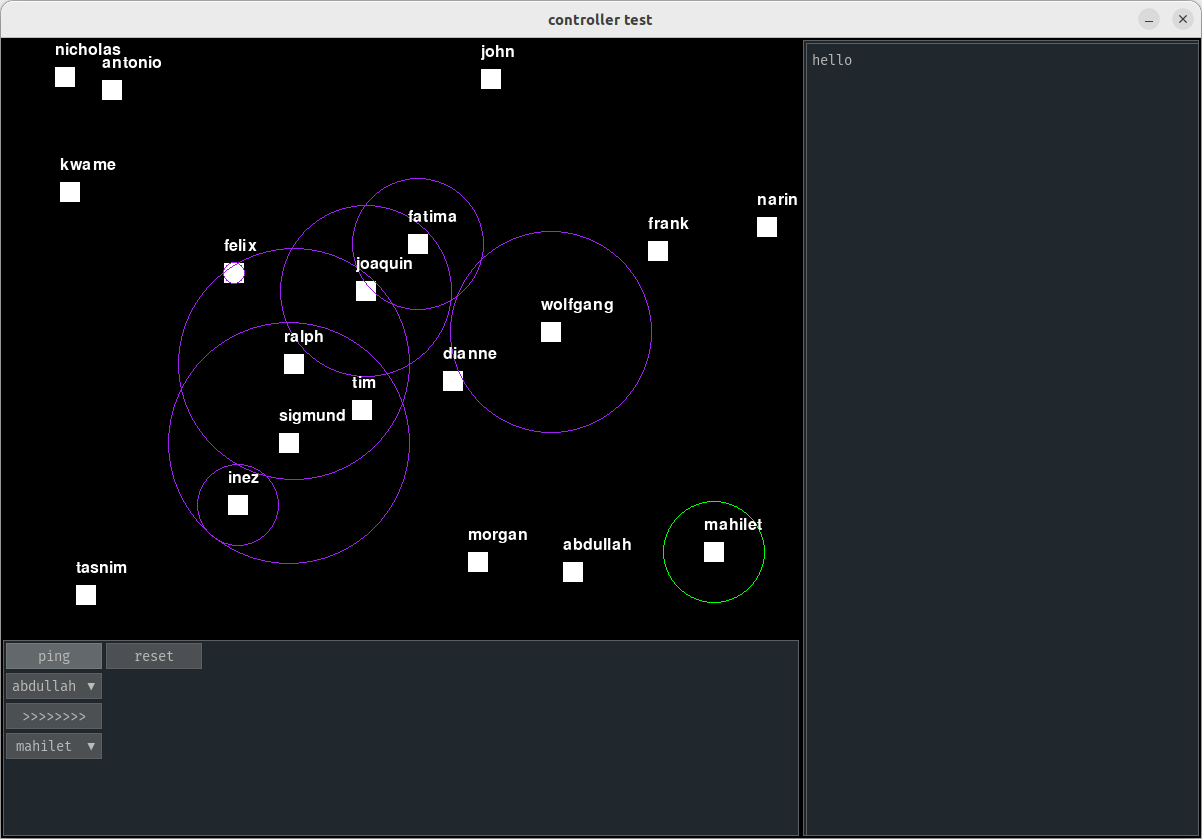
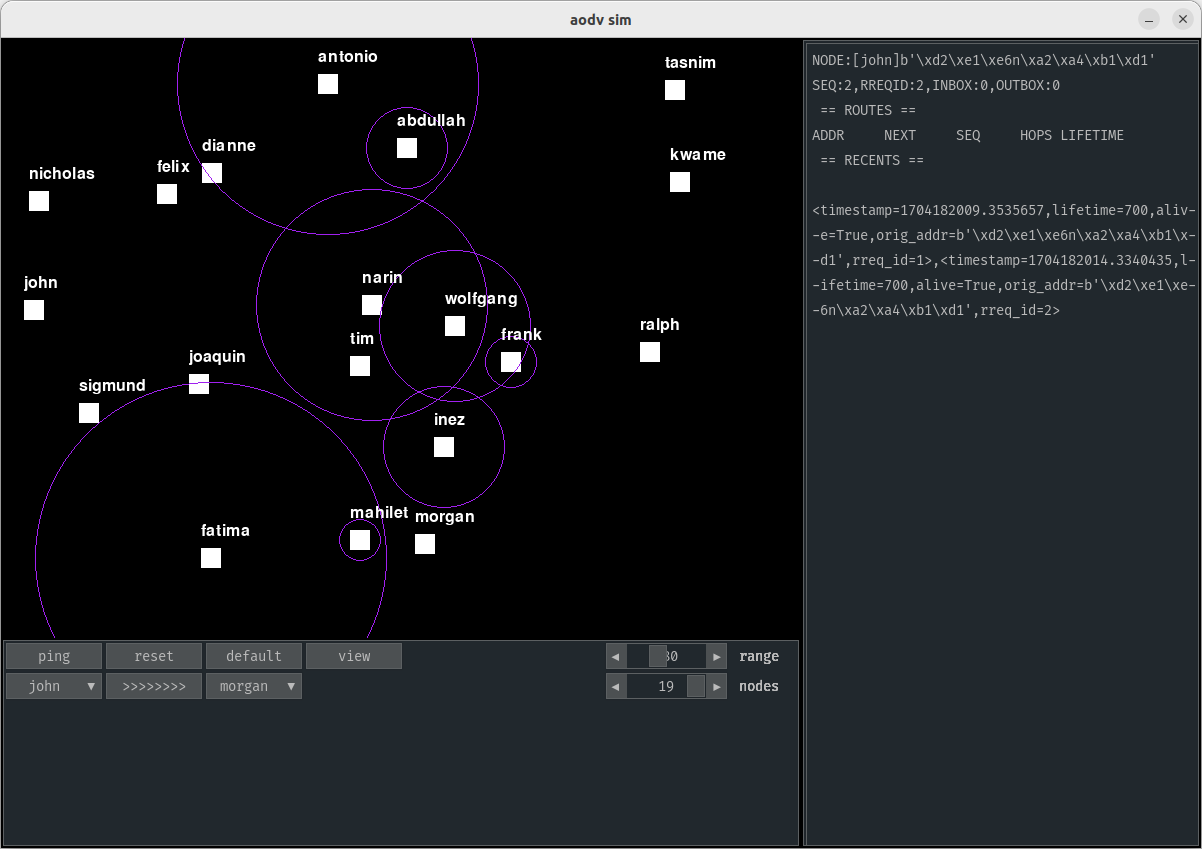
updates

diff --git a/main.py b/main.py
@@ -92,6 +92,8 @@ class Transmission(pg.sprite.Sprite):
         pg.draw.circle(surface, self.color, self.position, self.radius, 1)
 
 class Settings:
+    def __getitem__(self, key):
+        return self.__dict__.get(key, None)
     def __init__(self):
         self.default()
     def default(self):
@@ -102,6 +104,39 @@ class Settings:
         self.recver = cfg.NODE_NAMES[1]
         self.range = cfg.DEFAULT_RANGE
         self.speed = cfg.DEFAULT_SPEED
+        self.view_node = self.sender
+
+class Slider(UIHorizontalSlider):
+    def __init__(self, parent, label, value_range, start_value, x, y):
+        r = pg.Rect((x*cfg.BUTTON_W,y*cfg.BUTTON_H,cfg.SLIDER_W,cfg.SLIDER_H))
+        # super().__init__(relative_rect=pg.Rect((x*cfg.BUTTON_W,y*cfg.BUTTON_H,cfg.SLIDER_W,cfg.SLIDER_H)),
+        super().__init__(relative_rect=r,
+                        value_range=value_range, start_value=start_value, manager=parent.manager, container=parent)
+        self.inner =  UILabel(relative_rect=r,
+                                text=str(start_value),
+                                manager=parent.manager,
+                                container=parent)
+        
+        self.outer = UILabel(relative_rect=pg.Rect((r.topright[0]-r.w*0.25,r[1]), (r.w, r.h)),
+                                text=str(label),
+                                manager=parent.manager,
+                                container=parent,)
+    def set_text(self, text):
+        self.inner.set_text(text)
+
+class Button(UIButton):
+    def __init__(self, parent, text, x, y):
+        super().__init__(relative_rect=pg.Rect((x*cfg.BUTTON_W,y*cfg.BUTTON_H,cfg.BUTTON_W,cfg.BUTTON_H)),
+                        text=text,
+                        manager=parent.manager,
+                        container=parent)
+class Dropdown(UIDropDownMenu):
+    def __init__(self, parent, options_list, start_idx, x, y):
+        super().__init__(relative_rect=pg.Rect((x*cfg.BUTTON_W,y*cfg.BUTTON_H,cfg.BUTTON_W,cfg.BUTTON_H)),
+                         options_list=options_list,
+                         starting_option=options_list[start_idx],
+                         manager=parent.manager,
+                         container=parent)
 
 class NodeViewer(UIPanel):
     def __init__(self, parent):
@@ -112,15 +147,18 @@ class NodeViewer(UIPanel):
         self.settings = parent.settings
         self.nodes = parent.nodes
         self.signals = parent.signals
-
-        self.active_node = None
         self.box = UITextBox(html_text='hello',
                              relative_rect=pg.Rect(0,0,cfg.VIEW_WIDTH,cfg.VIEW_HEIGHT),
                              manager=self.manager,
                              container=self,
                              plain_text_display_only=True)
-        print(self.rect)
-        
+    
+    def print_active(self):
+        for n in self.nodes:
+            # if n.nickname == self.settings.view_node:
+            if n.nickname == self.settings.sender:
+                self.box.set_text(n.aodv.__repr__())
+    
 
 class Controller(UIPanel):
     def __init__(self, parent):
@@ -160,6 +198,7 @@ class Controller(UIPanel):
             # reset button clicked
             if event.ui_element == self.default_button:
                 self.settings.default()
+                self.parent.reset_nodes()
                 self.remake()
                 self.refresh()
                 handled &= True
@@ -175,7 +214,11 @@ class Controller(UIPanel):
                     self.settings.direction = PING_REV
                 else:
                     self.settings.direction = PING_FWD
-                self.dir_label.set_text(self.settings.direction)
+                self.dir_button.set_text(self.settings.direction)
+                handled &= True
+            # view button
+            if event.ui_element == self.view_button:
+                self.parent.view.print_active()
                 handled &= True
         elif event.type == gui.UI_HORIZONTAL_SLIDER_MOVED:
             #TODO
@@ -195,82 +238,33 @@ class Controller(UIPanel):
             self.reset_button.kill()
             self.default_button.kill()
             self.dir_button.kill()
-            self.dir_label.kill()
+            self.view_button.kill()
             self.send_list.kill()
             self.recv_list.kill()
             self.num_nodes_slider.kill()
-            self.num_nodes_label.kill()
             self.range_slider.kill()
-            self.range_label.kill()
         except Exception as e:
             print(e)
 
-        self.ping_button = UIButton(relative_rect=pg.Rect((0,0),(cfg.BUTTON_W,cfg.BUTTON_H)),
-                                    text='ping',
-                                    manager=self.manager,
-                                    container=self)
-        # button to reset nodes
-        self.reset_button = UIButton(relative_rect=pg.Rect((cfg.BUTTON_W,0),(cfg.BUTTON_W,cfg.BUTTON_H)),
-                                    text='reset',
-                                    manager=self.manager,
-                                    container=self)
-        # button to reset nodes
-        self.default_button = UIButton(relative_rect=pg.Rect((cfg.BUTTON_W*2,cfg.BUTTON_H*2),(cfg.BUTTON_W,cfg.BUTTON_H)),
-                                    text='default',
-                                    manager=self.manager,
-                                    container=self)
-        # button to switch send direction
-        self.dir_button = UIButton(relative_rect=pg.Rect((0,cfg.BUTTON_H*2),(cfg.BUTTON_W,cfg.BUTTON_H)),
-                                                text='',
-                                                manager=self.manager,
-                                                container=self)
-        # direction button label
-        self.dir_label = UILabel(relative_rect=self.dir_button.relative_rect,
-                                 text=self.settings.direction,
-                                 manager=self.manager,
-                                 container=self)
-        # left node list
-        self.send_list = UIDropDownMenu(relative_rect=pg.Rect(0,cfg.BUTTON_H,cfg.BUTTON_W,cfg.BUTTON_H), 
-                                         options_list=cfg.NODE_NAMES[:self.settings.num_nodes],
-                                         manager=self.manager,
-                                         container=self,
-                                         starting_option=cfg.NODE_NAMES[0])
-        # right node list
-        self.recv_list = UIDropDownMenu(relative_rect=pg.Rect(0,cfg.BUTTON_H*3,cfg.BUTTON_W,cfg.BUTTON_H),
-                                         options_list=cfg.NODE_NAMES[:self.settings.num_nodes],
-                                         manager=self.manager,
-                                         container=self,
-                                         starting_option=cfg.NODE_NAMES[1])
-        # number of nodes slider
-        self.num_nodes_slider = UIHorizontalSlider(relative_rect=pg.Rect(cfg.BUTTON_W*2,0,cfg.SLIDER_W,cfg.SLIDER_H),
-                                                   value_range=(3,len(cfg.NODE_NAMES)),
-                                                   start_value=self.settings.num_nodes,
-                                                   manager=self.manager,
-                                                   container=self)
-        # num nodes label
-        self.num_nodes_label = UILabel(relative_rect=self.num_nodes_slider.relative_rect,
-                                 text=str(self.settings.num_nodes),
-                                 manager=self.manager,
-                                 container=self)
-        # signal radius slider
-        self.range_slider = UIHorizontalSlider(relative_rect=pg.Rect(cfg.BUTTON_W*2,cfg.BUTTON_H,cfg.SLIDER_W,cfg.SLIDER_H),
-                                                   value_range=(cfg.MIN_RANGE,cfg.MAX_RANGE),
-                                                   start_value=self.settings.range,
-                                                   manager=self.manager,
-                                                   container=self)
-        # signal radius label
-        self.range_label = UILabel(relative_rect=self.range_slider.relative_rect,
-                                 text=str(self.settings.range),
-                                 manager=self.manager,
-                                 container=self)
+        self.ping_button = Button(self, 'ping', 0, 0)
+        self.reset_button = Button(self, 'reset', 1, 0)
+        self.default_button = Button(self, 'default', 2, 0)
+        self.view_button = Button(self, 'view', 3, 0)
+
+        self.send_list = Dropdown(self, cfg.NODE_NAMES[:self.settings.num_nodes], 0, 0, 1)
+        self.dir_button = Button(self, PING_FWD, 1, 1)
+        self.recv_list = Dropdown(self, cfg.NODE_NAMES[:self.settings.num_nodes], 1, 2, 1)
+
+        self.range_slider = Slider(self, 'range', (cfg.MIN_RANGE,cfg.MAX_RANGE), self.settings.range, 6, 0)
+        self.num_nodes_slider = Slider(self, 'nodes', (3,len(cfg.NODE_NAMES)), self.settings.num_nodes, 6, 1)
     
     def refresh(self):
         self.settings.sender = self.send_list.selected_option
         self.settings.recver = self.recv_list.selected_option
         self.settings.num_nodes = self.num_nodes_slider.current_value
         self.settings.range = self.range_slider.current_value
-        self.num_nodes_label.set_text(str(self.settings.num_nodes))
-        self.range_label.set_text(str(self.settings.range))
+        self.num_nodes_slider.set_text(str(self.settings.num_nodes))
+        self.range_slider.set_text(str(self.settings.range))
 
 
 class Simulation:
@@ -349,6 +343,7 @@ class Simulation:
                     # default settings
                     if event.key == pg.K_d:
                         self.settings.default()
+                        self.reset_nodes()
                         self.ctl.remake()
                         self.ctl.refresh()
                     # reset
@@ -359,6 +354,9 @@ class Simulation:
                     # ping
                     if event.key == pg.K_p:
                         self.ctl.send_ping()
+                    # view
+                    if event.key == pg.K_v:
+                        self.view.print_active()
 
                 self.manager.process_events(event)
 

diff --git a/sim_config.py b/sim_config.py
@@ -35,15 +35,19 @@ SIM_Y_MARGIN = 30
 NODE_SPRITE_DIM = (20, 20)
 
 # surfaces
-SCREEN_WIDTH = 1200
-SCREEN_HEIGHT = 800
 SIM_WIDTH = 800
 SIM_HEIGHT = 600
+GUI_HEIGHT = 210
+VIEW_WIDTH = 400
 
 GUI_WIDTH = SIM_WIDTH
-GUI_HEIGHT = SCREEN_HEIGHT - SIM_HEIGHT
+BUTTON_W = SIM_WIDTH//8
+BUTTON_H = GUI_HEIGHT//7
+
+GUI_HEIGHT = BUTTON_H*7
+SCREEN_HEIGHT = SIM_HEIGHT+GUI_HEIGHT
+SCREEN_WIDTH = SIM_WIDTH+VIEW_WIDTH
 VIEW_HEIGHT = SCREEN_HEIGHT
-VIEW_WIDTH = SCREEN_WIDTH - SIM_WIDTH
 
 # colors
 SIM_COLOR = 'black'
@@ -57,11 +61,9 @@ HELLO_COLOR = 'yellow'
 DATA_COLOR = 'green'
 UNKNOWN_COLOR = 'white'
 
-# element dimensions
-BUTTON_W = 100
-BUTTON_H = 30
 
-SLIDER_W = int(BUTTON_W * 1.5)
+# element dimensions
+SLIDER_W = int(BUTTON_W * 1.25)
 SLIDER_H = BUTTON_H
 
 # element positions
@@ -72,4 +74,3 @@ SEND_BUTTON_POS = (0, 660)
 SIM_DIM = (0, 0, SIM_WIDTH, SIM_HEIGHT)
 GUI_DIM = (0, SIM_HEIGHT, GUI_WIDTH, GUI_HEIGHT)
 VIEW_DIM = (SIM_WIDTH, 0, VIEW_WIDTH, VIEW_HEIGHT)
-

diff --git a/node.py b/node.py
@@ -127,12 +127,12 @@ class RoutingTable:
 
 class Node:
     def __repr__(self):
-        out = f'NODE:{self.addr}\nSEQ:{self.seq_num},RREQID:{self.rreq_id},'
+        out = f'NODE:[{self.nickname}]{self.addr}\nSEQ:{self.seq_num},RREQID:{self.rreq_id},'
         out += f'INBOX:{len(self.rx_fifo)},OUTBOX:{len(self.tx_fifo)}\n'
         out += ' == ROUTES == \n'
         out += self.routing_table.__repr__()
         out += '\n == RECENTS == \n'
-        out += '\n'.join(f" > {k}:{v}" for k, v in self.recent_rreqs.items())
+        out += '\n' + ','.join([str(r) for r in self.recent_rreqs])
         return out
     
     def __init__(self, node_addr:bytes, nickname:str=''):

diff --git a/README.md b/README.md
@@ -6,6 +6,7 @@
 
 - AODV routing simulation with [pygame](https://www.pygame.org) and [pygame_gui](https://pygame-gui.readthedocs.io/en/latest/quick_start.html).
 - planning to implement IRL in micropython eventually, so limited python featureset
+- wip, protocol not quite done/working yet
 
 ## instructions
 
@@ -20,19 +21,3 @@ or use a venv, or whatever.
 - use gui to send data
 - click node to see its contents
 - press 'r' to reset random node positions
-
-## status
-
-### 2023-12-31
-
-initial commit. not quite working yet
-- sim:
-  - click still just sends rreq
-  - need implement show_node_contents() etc
-- node.py:
-  - logical errors and stuff yet unimplemented
-  - structure getting there
-- protocol-related:
-  - ugly, clunky
-  - ..stupid?
-  - works for now
